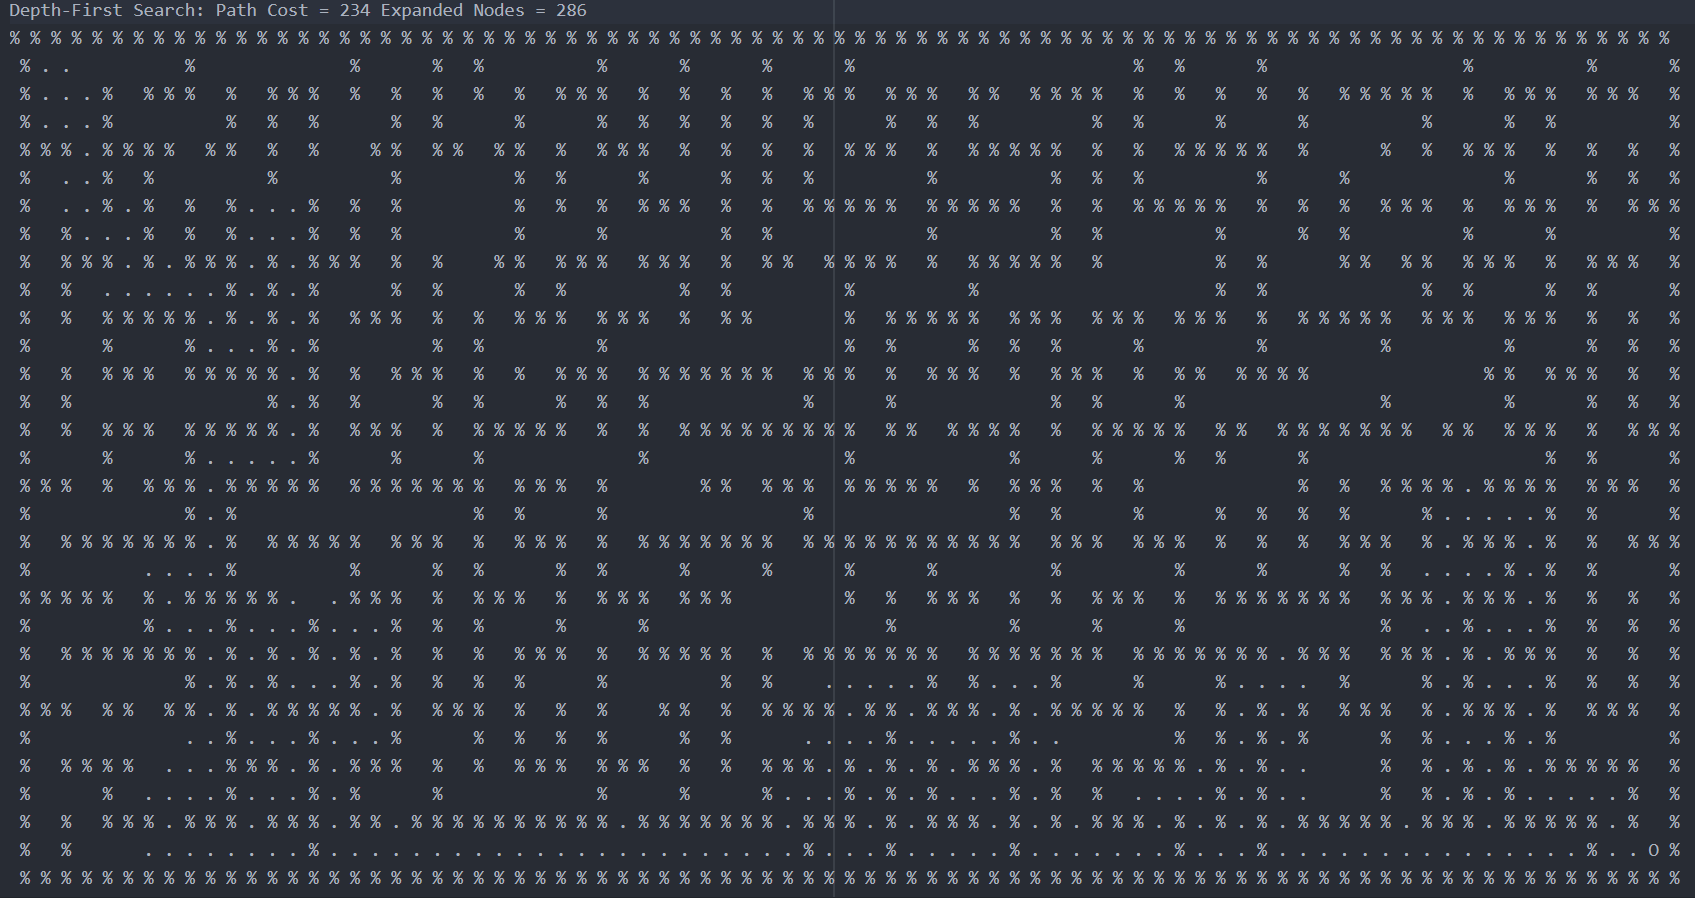
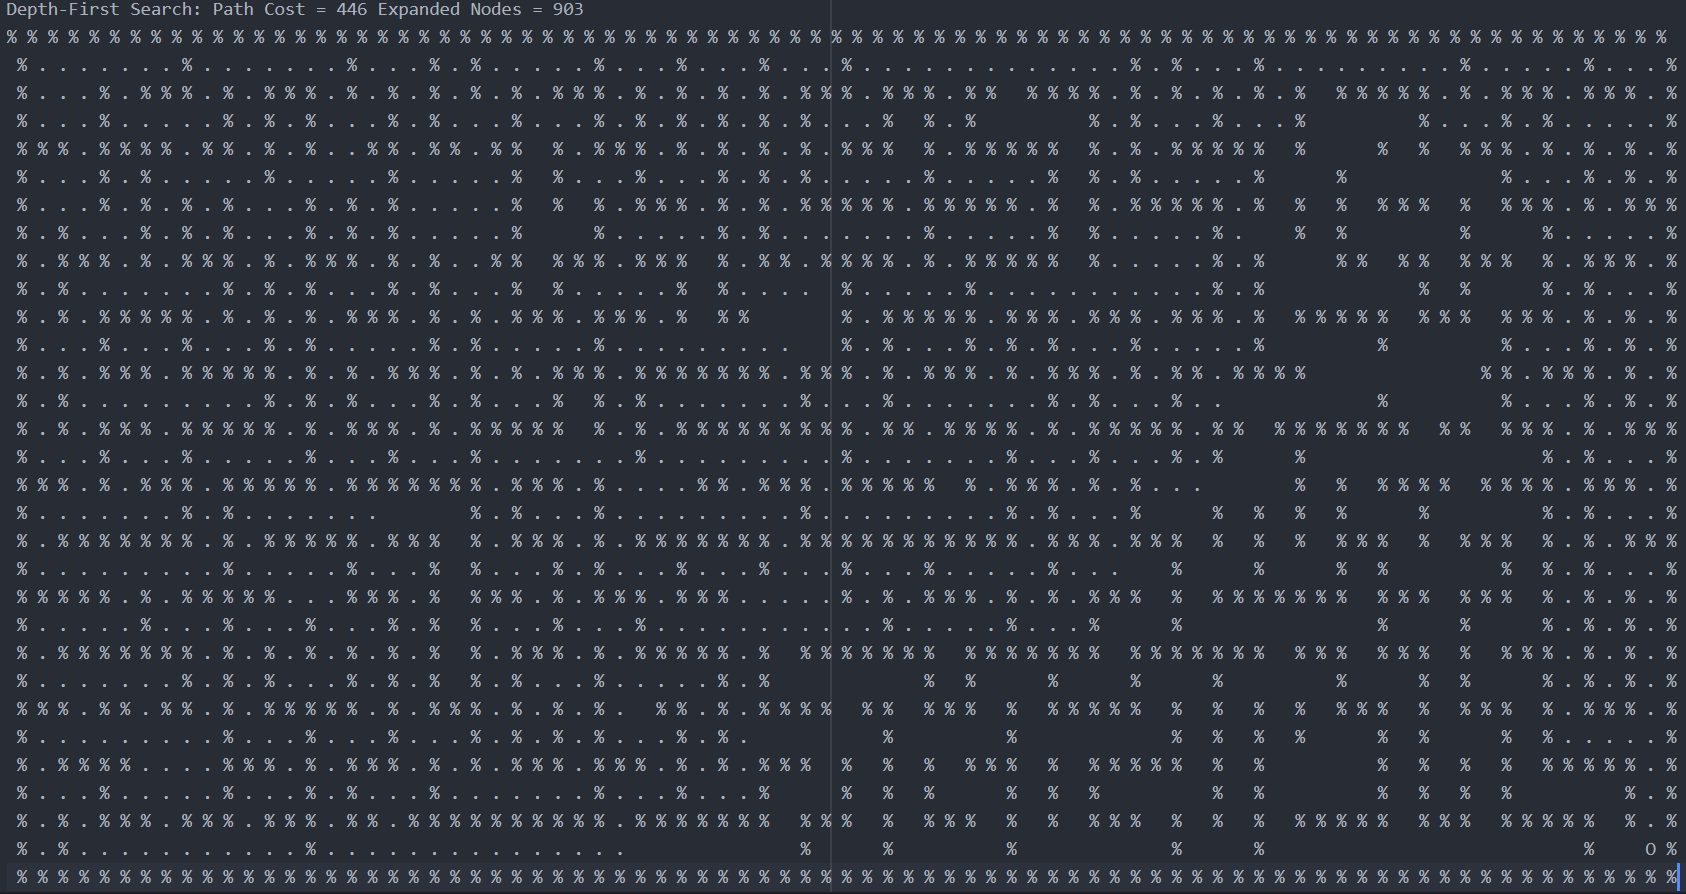
Fixed DFS

Changed region(s): [[0.0, 0.0, 1.0, 0.9966], [0.4009, 0.5134, 0.4318, 0.5436], [0.2776, 0.2718, 0.3084, 0.302]]

diff --git a/vining_logan_a1.py b/vining_logan_a1.py
@@ -188,9 +188,11 @@ def depth_first(maze):
             write_to_file('Path Cost = ' + str(d_path_cost + 1))
             break
         elif (maze[current_y][current_x - 1] == ' '):
-            stack.append(([current_y, current_x - 1], d_path_cost + 1))
+            d_path_cost += 1
+            stack.append(([current_y, current_x - 1], d_path_cost))
             d_expanded += 1
-            maze[current_y][current_x - 1] = '.'
+            maze[current_y][current_x] = '.'
+            current_x = current_x - 1
             continue
 
         # Then goal check the top node and if it matches, print path cost
@@ -203,9 +205,11 @@ def depth_first(maze):
             write_to_file('Path Cost = ' + str(d_path_cost + 1))
             break
         elif (maze[current_y - 1][current_x] == ' '):
-            stack.append(([current_y - 1, current_x], d_path_cost + 1))
+            d_path_cost += 1
+            stack.append(([current_y - 1, current_x], d_path_cost))
             d_expanded += 1
-            maze[current_y - 1][current_x] = '.'
+            maze[current_y][current_x] = '.'
+            current_y = current_y - 1
             continue
 
         # Goal check the right node and if it matches, print path cost
@@ -218,9 +222,11 @@ def depth_first(maze):
             write_to_file('Path Cost = ' + str(d_path_cost + 1))
             break
         elif (maze[current_y][current_x + 1] == ' '):
-            stack.append(([current_y, current_x + 1], d_path_cost + 1))
+            d_path_cost += 1
+            stack.append(([current_y, current_x + 1], d_path_cost))
             d_expanded += 1
-            maze[current_y][current_x + 1] = '.'
+            maze[current_y][current_x] = '.'
+            current_x = current_x + 1
             continue
 
         # Finally goal check the bottom node and if it matches, print path cost
@@ -233,9 +239,11 @@ def depth_first(maze):
             write_to_file('Path Cost = ' + str(d_path_cost + 1))
             break
         elif (maze[current_y + 1][current_x] == ' '):
-            stack.append(([current_y + 1, current_x], d_path_cost + 1))
+            d_path_cost += 1
+            stack.append(([current_y + 1, current_x], d_path_cost))
             d_expanded += 1
-            maze[current_y + 1][current_x] = '.'
+            maze[current_y][current_x] = '.'
+            current_y = current_y + 1
             continue
 
         # If nowhere left to go, backtrack on the stack and update coordinates
